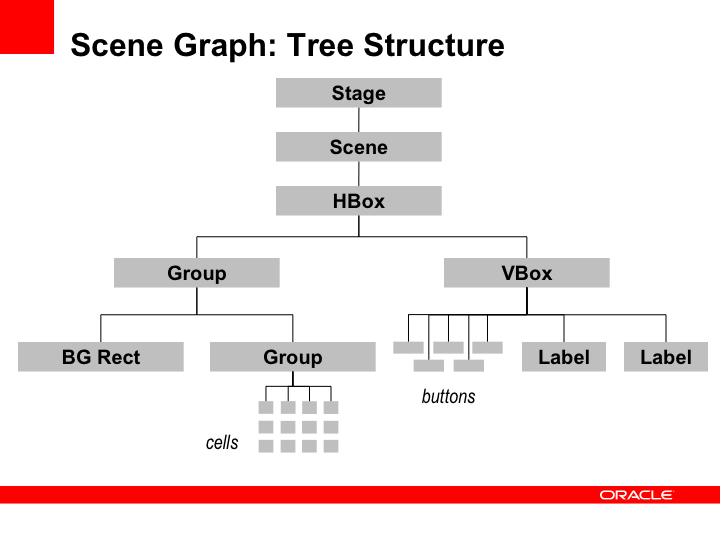
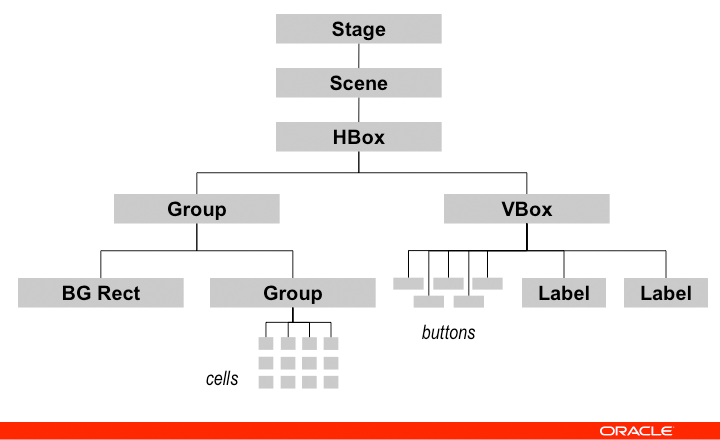
Docu: Adds source to image and cuts out parts of image

diff --git a/Documentation/scala.tex b/Documentation/scala.tex
@@ -25,7 +25,8 @@ JavaFX ist besonders leicht zu entwickeln, da es auf den \texttt{Scene Graph} se
 \begin{figure}[!htb]
     \centering
       \includegraphics[width=0.75\linewidth]{scene-graph}
-    \caption{Darstellung der Baumstruktur im Scene Graph}
+    \caption[Caption]{Darstellung der Baumstruktur im Scene Graph --- Quelle: \url{http://www.smarks.org/svjugfx20100414/flood.html}}
+
     \label{fig:scene-graph}
 \end{figure}
 
